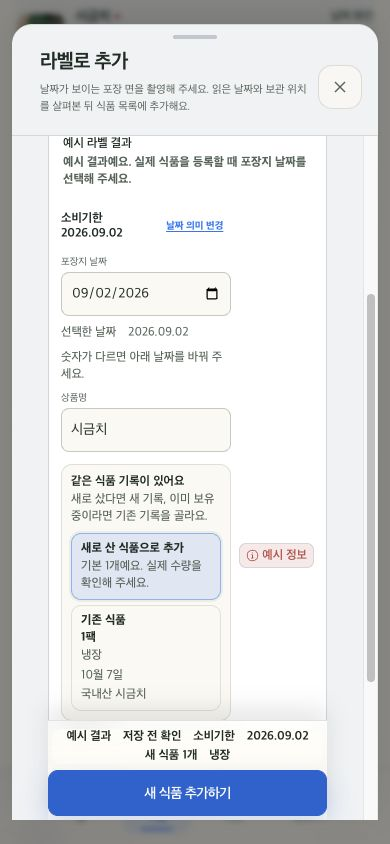
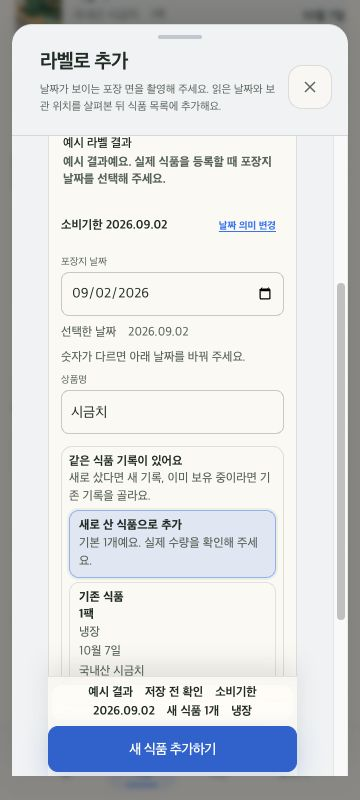
Finalize label metadata layout and update native flow regression checks

diff --git a/apps/web/tests/native-viewport.spec.ts b/apps/web/tests/native-viewport.spec.ts
@@ -379,7 +379,7 @@ test("keeps meal time and serving choices readable on narrow phones", async ({ p
     const choices = dialog.locator(".recipe-time-picker button, .recipe-serving-picker button");
     await expect(choices).toHaveCount(8);
     for (const choice of await choices.all()) {
-      await expect(choice).toHaveCSS("font-size", "11px");
+      expect(await choice.evaluate((element) => Number.parseFloat(getComputedStyle(element).fontSize))).toBeGreaterThanOrEqual(12);
       const box = await choice.boundingBox();
       expect(box?.width).toBeGreaterThanOrEqual(43.5);
       expect(box?.height).toBeGreaterThanOrEqual(43.5);
@@ -731,13 +731,13 @@ test("shows the meal result inside the first native sheet viewport", async ({ pa
     const dialog = page.getByRole("dialog", { name: "오늘의 식단" });
     await expect(dialog).toBeVisible();
     await waitForSheetSettled(page);
-    await expect(dialog.locator(".recipe-art")).toBeVisible();
+    await expect(dialog.locator(".recipe-art")).toHaveCount(0);
     await expect(dialog.locator(".recipe-title-row")).toBeVisible();
     // Planner actions stay in document flow so they cannot cover the safety
     // summary on short mobile screens. Food detail actions remain sticky.
     await expect(dialog.locator(".recipe-actions")).toHaveCSS("position", "static");
-    const safetyEntry = dialog.getByRole("button", { name: "사용 전 확인 2건 보기" });
-    const dateReviewAction = dialog.getByRole("button", { name: "식품 확인 · 시금치" });
+    const safetyEntry = dialog.getByRole("button", { name: "조리 전에 확인할 내용 2개 보기" });
+    const dateReviewAction = dialog.getByRole("button", { name: "시금치 보기", exact: true });
     await expect(safetyEntry).toBeFocused();
     await safetyEntry.click();
     await expect(dateReviewAction).toBeFocused();
@@ -747,19 +747,16 @@ test("shows the meal result inside the first native sheet viewport", async ({ pa
       return {
         screen: rect("[data-testid=device-screen]"),
         sheet: rect("[data-testid=bottom-sheet]"),
-        art: rect(".recipe-art"),
         title: rect(".recipe-title-row"),
       };
     });
 
     expect(layout.screen).toBeTruthy();
     expect(layout.sheet).toBeTruthy();
-    expect(layout.art).toBeTruthy();
     expect(layout.title).toBeTruthy();
     expect(layout.sheet!.height / layout.screen!.height).toBeGreaterThanOrEqual(0.85);
-    expect(layout.art!.top).toBeGreaterThanOrEqual(layout.sheet!.top - 1);
+    expect(layout.title!.top).toBeGreaterThanOrEqual(layout.sheet!.top - 1);
     expect(layout.title!.bottom).toBeLessThanOrEqual(layout.screen!.bottom + 1);
-    expect(layout.title!.top).toBeLessThanOrEqual(layout.art!.top + 1);
     await page.keyboard.press("Escape");
     await expect(dialog).toHaveCount(0);
   }

diff --git a/apps/web/src/prototype.css b/apps/web/src/prototype.css
@@ -18355,3 +18355,9 @@ html[data-rescue-theme="light"] .app-shell-preview .meal-home .priority-card .fo
   align-items: flex-end;
   gap: 2px;
 }
+
+.bottom-sheet .label-result-card > .label-result-fields {
+  flex: 1 0 100%;
+  width: 100%;
+  min-width: 0;
+}
